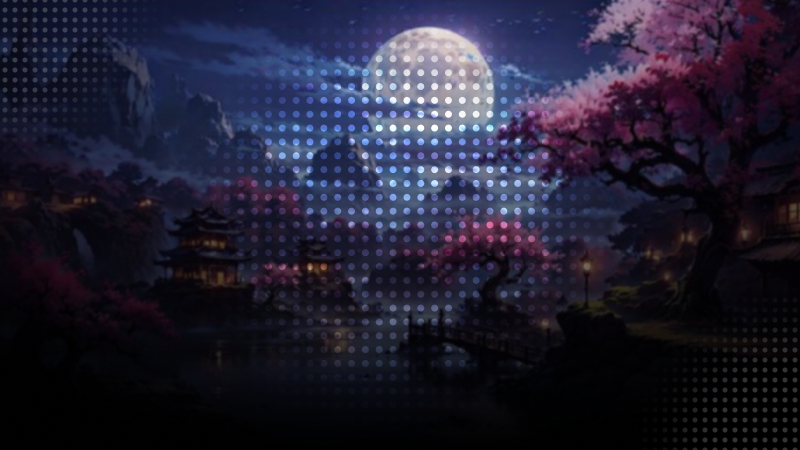
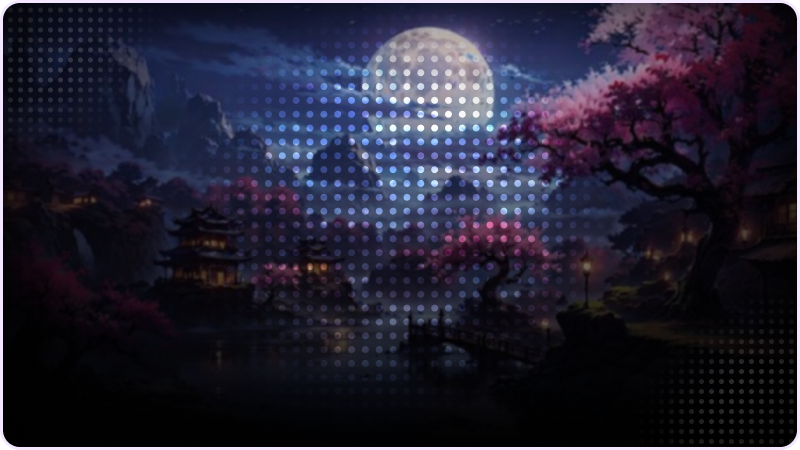
updated welcome card again

Changed region(s): [[0.0, 0.0, 1.0, 1.0]]

diff --git a/util/welcome_utils.py b/util/welcome_utils.py
@@ -100,15 +100,8 @@ class WelcomeSystem:
             # Scale variables
             scale_factor = min(WIDTH / 800, HEIGHT / 300)
             
-            plate_h = int(HEIGHT * 0.65)
-            plate_w = int(WIDTH * 0.8)
-            plate_x = (WIDTH - plate_w) // 2
-            plate_y = (HEIGHT - plate_h) // 2
-            
-            # Avatar size perfectly fitted inside the left of the pill
-            padding = int(plate_h * 0.1)
-            ar = (plate_h - padding * 2) // 2
-            ax, ay = plate_x + padding, plate_y + padding
+            ar = int(HEIGHT * 0.3)
+            ax, ay = int(WIDTH * 0.15), HEIGHT // 2 - ar
             
             # Download avatar
             avatar_img = None
@@ -127,6 +120,21 @@ class WelcomeSystem:
                         
                         avatar_img = Image.new("RGBA", (ar*2, ar*2))
                         avatar_img.paste(av_raw, (0, 0), av_mask)
+                        
+                        # Draw ethereal radial aura behind avatar
+                        aura = Image.new("RGBA", (WIDTH, HEIGHT), (0,0,0,0))
+                        aura_draw = ImageDraw.Draw(aura)
+                        aura_radius = int(ar * 1.5)
+                        for i in range(20):
+                            r = ar + (aura_radius - ar) * i // 20
+                            alpha = min(255, max(0, 50 - (2 * i)))
+                            aura_draw.ellipse((ax + ar - r, ay + ar - r, ax + ar + r, ay + ar + r), fill=(255, 255, 255, alpha))
+                        img.paste(aura, (0,0), aura)
+                        
+                        # Draw subtle clean rim
+                        ring_width = max(2, int(HEIGHT * 0.015))
+                        ImageDraw.Draw(avatar_img).ellipse((ring_width//2, ring_width//2, ar*2 - ring_width//2, ar*2 - ring_width//2), outline=(255,255,255,80), width=ring_width)
+                        
             except Exception as e:
                 self.logger.error(f"Error downloading avatar: {str(e)}")
             
@@ -134,10 +142,8 @@ class WelcomeSystem:
                 img.paste(avatar_img, (ax, ay), avatar_img)
             
             # Text placing
-            # We place the text symmetrically in the remaining space of the pill
-            text_area_x = ax + ar*2
-            text_area_w = plate_w - (ar*2 + padding)
-            text_x = text_area_x + text_area_w // 2
+            text_x = ax + ar*2 + int(WIDTH * 0.15)
+            text_y = HEIGHT // 2
             
             display_name = member.display_name
             username_txt = f"@{member.name}"
@@ -162,15 +168,15 @@ class WelcomeSystem:
             sub_font = load_font(["arial.ttf", "LiberationSans-Regular.ttf"], int(24 * scale_factor))
 
             # Greeting
-            draw_text_shadow(draw, greeting_txt, text_x, plate_y + plate_h // 2 - int(28*scale_factor), header_font, "mb", (245, 195, 105)) # Golden accent
+            draw_text_shadow(draw, greeting_txt, text_x, text_y - int(28*scale_factor), header_font, "mb", (245, 195, 105)) # Golden accent
             
             # Name
             if len(display_name) > 16:
                 display_name = display_name[:14] + '...'
-            draw_text_shadow(draw, display_name, text_x, plate_y + plate_h // 2 + int(10*scale_factor), title_font, "mb", (255, 255, 255))
+            draw_text_shadow(draw, display_name, text_x, text_y + int(10*scale_factor), title_font, "mb", (255, 255, 255))
             
             # Username
-            draw_text_shadow(draw, username_txt, text_x, plate_y + plate_h // 2 + int(18*scale_factor), sub_font, "mt", (200, 210, 220))
+            draw_text_shadow(draw, username_txt, text_x, text_y + int(18*scale_factor), sub_font, "mt", (200, 210, 220))
             
             buffer = BytesIO()
             img.save(buffer, format="PNG")
